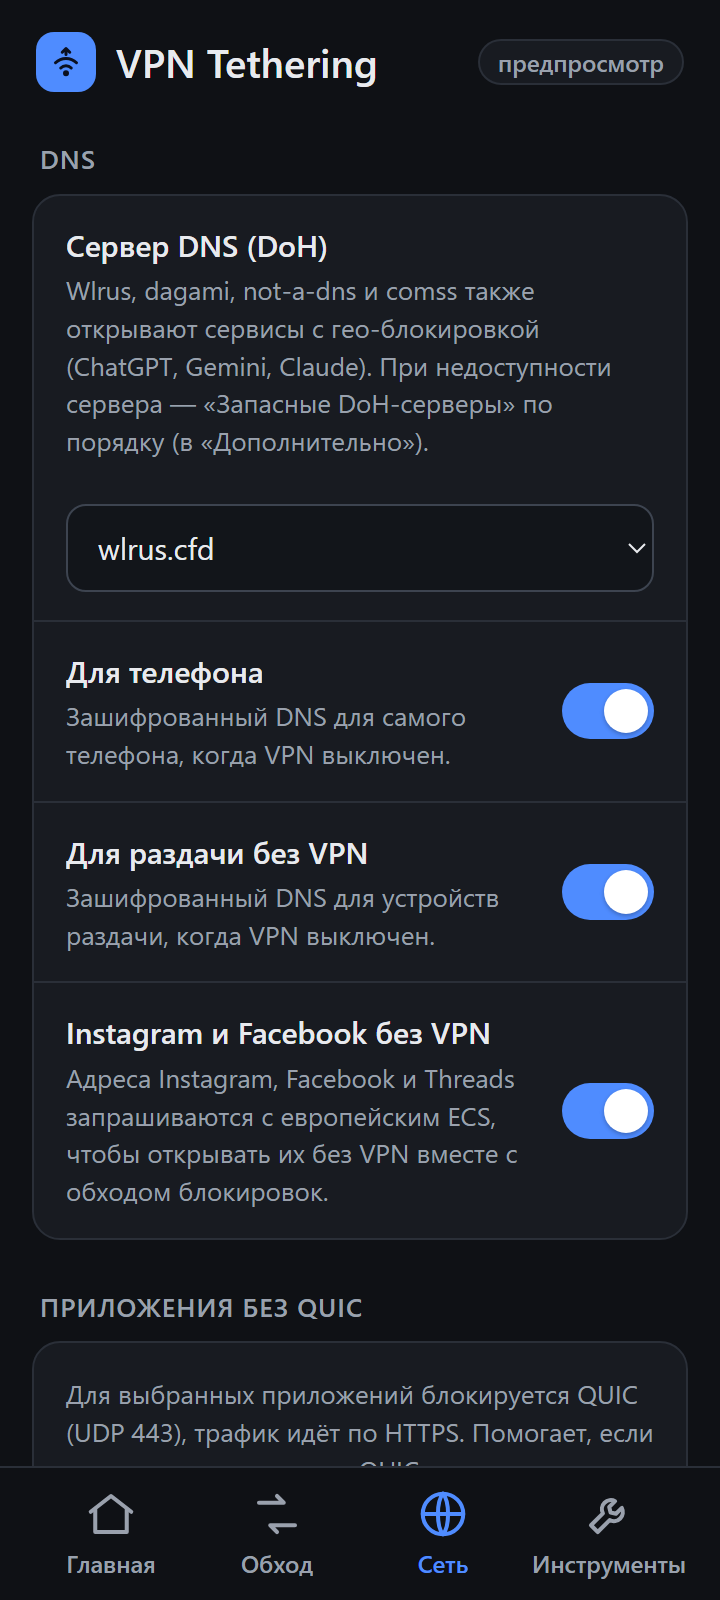
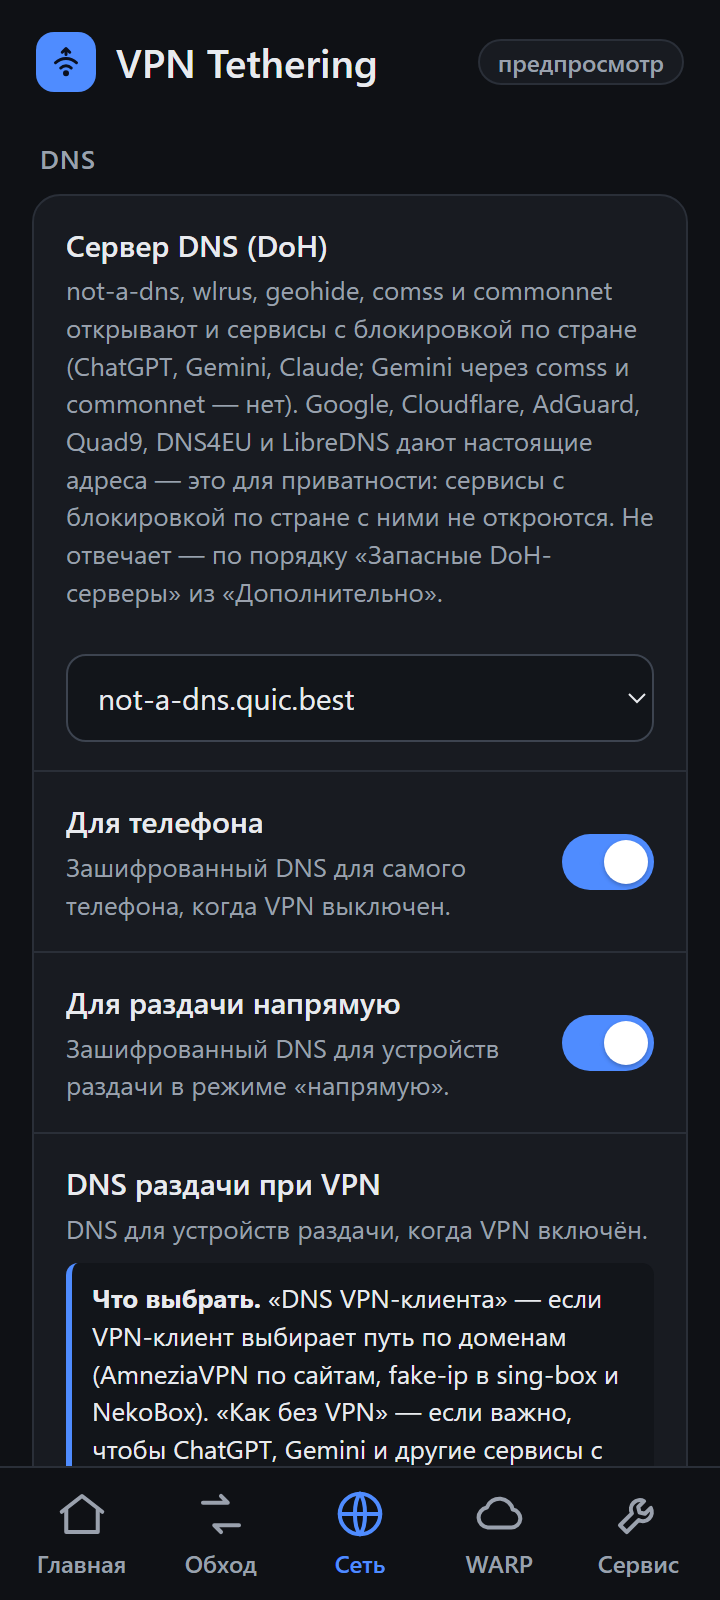
README: скриншоты WebUI под 3.22 (5 вкладок, с WARP и «Сервис»), описание DNS при VPN и WARP для кого

diff --git a/README.md b/README.md
@@ -35,12 +35,13 @@
 ## Скриншоты
 
 <p align="center">
-<picture><source media="(prefers-color-scheme: dark)" srcset="docs/screenshots/home-dark.png"><img src="docs/screenshots/home-light.png" width="24%" alt="Главная: режим раздачи и основные выключатели"></picture>
-<picture><source media="(prefers-color-scheme: dark)" srcset="docs/screenshots/bypass-dark.png"><img src="docs/screenshots/bypass-light.png" width="24%" alt="Обход: стратегия для каждой сети"></picture>
-<picture><source media="(prefers-color-scheme: dark)" srcset="docs/screenshots/net-dark.png"><img src="docs/screenshots/net-light.png" width="24%" alt="Сеть: DNS-сервер и приложения без QUIC"></picture>
-<picture><source media="(prefers-color-scheme: dark)" srcset="docs/screenshots/tools-dark.png"><img src="docs/screenshots/tools-light.png" width="24%" alt="Инструменты: диагностика сети и проверки"></picture>
+<picture><source media="(prefers-color-scheme: dark)" srcset="docs/screenshots/home-dark.png"><img src="docs/screenshots/home-light.png" width="19%" alt="Главная: режим раздачи и основные выключатели"></picture>
+<picture><source media="(prefers-color-scheme: dark)" srcset="docs/screenshots/bypass-dark.png"><img src="docs/screenshots/bypass-light.png" width="19%" alt="Обход: стратегия для каждой сети"></picture>
+<picture><source media="(prefers-color-scheme: dark)" srcset="docs/screenshots/net-dark.png"><img src="docs/screenshots/net-light.png" width="19%" alt="Сеть: сервер DNS, DNS для телефона и раздачи"></picture>
+<picture><source media="(prefers-color-scheme: dark)" srcset="docs/screenshots/warp-dark.png"><img src="docs/screenshots/warp-light.png" width="19%" alt="WARP: туннель, для кого и что через него идёт"></picture>
+<picture><source media="(prefers-color-scheme: dark)" srcset="docs/screenshots/tools-dark.png"><img src="docs/screenshots/tools-light.png" width="19%" alt="Сервис: диагностика сети и проверки"></picture>
 </p>
-<p align="center"><sub>Главная · Обход · Сеть · Инструменты</sub></p>
+<p align="center"><sub>Главная · Обход · Сеть · WARP · Сервис</sub></p>
 
 ## Возможности
 
@@ -55,7 +56,9 @@
   dnsproxy по DoH — без подмены ответов оператором и с доступом к сервисам с гео-блокировкой
   (ChatGPT, Gemini, Claude и т. п.).
   Проверка здоровья, цепочка запасных серверов, адреса Instagram и Facebook «как из Европы» (ECS).
-  Когда пропадает вся сеть, DNS не уходит на оператора — ждёт её возврата.
+  Когда пропадает вся сеть, DNS не уходит на оператора — ждёт её возврата. При VPN DNS раздачи —
+  DNS VPN-клиента или «как без VPN» (тот же DoH, но через туннель): после выключения VPN
+  сервисы с блокировкой по стране открываются сразу.
 - **Обход блокировок (zapret/nfqws)** для трафика мимо VPN — раздачи напрямую и приложений
   телефона. Своя стратегия для каждой сети, подбор в WebUI (~2 или ~7 мин), сторож, который
   сам чинит сломавшуюся стратегию, отдельные стратегии для отдельных сайтов. Банки и Госуслуги
@@ -63,7 +66,7 @@
 - **WARP без VPN-клиента.** Для того, что обход не открывает (Telegram, сайты с блокировкой
   по IP или по стране), — свой туннель WARP на AmneziaWG в режиме «напрямую». Через него идут
   только выбранные группы: Telegram (клиенты на телефоне — целиком), по желанию Google, свои
-  домены и приложения телефона. Конфиги создаются прямо с телефона или импортируются из
+  домены и приложения телефона; для телефона и для раздачи — отдельными переключателями. Конфиги создаются прямо с телефона или импортируются из
   AmneziaVPN; перестал отвечать — модуль переходит на следующий (пропавшая сеть, например в
   метро, сбоем конфига не считается).
 - **YouTube на мобильном интернете.** Отбой «молчащих» видеосерверов, обрыв медленных
@@ -301,6 +304,7 @@ for Meta domains (ECS); **DPI circumvention** with zapret's `nfqws` for traffic 
 per-network strategies, a quick/full strategy scanner, a self-repairing watchdog, per-site
 strategies and an exclusion list for banks and government services; a built-in **WARP tunnel**
 (AmneziaWG, no VPN app needed) for selected groups — Telegram, Google, custom domains, whole apps —
+separately for the phone and for tethered devices,
 with configs generated on the phone or imported from AmneziaVPN; **YouTube helpers** for mobile
 networks (fail-fast on silent video servers, dropping slow video connections, QUIC with fake Initials
 instead of blocking); tethering stealth (TTL 63) and per-app QUIC blocking.

diff --git a/docs/settings.md b/docs/settings.md
@@ -27,14 +27,14 @@
 настроек. Все вызовы идут через `webctl.sh` с фиксированным набором команд. Значения
 проверяет сам `service.sh --check` теми же правилами, что и при чтении конфига.
 С v3.10 разделы разложены по вкладкам: **Главная** (режим и главные выключатели),
-**Обход**, **Сеть** (DNS, приложения без QUIC), **WARP** (с 3.19.0) и **Сервис** (до 3.19.0 —
+**Обход** (в том числе YouTube и QUIC), **Сеть** (DNS), **WARP** (с 3.19.0) и **Сервис** (до 3.19.0 —
 «Инструменты»: проверки, журнал, «Отправить логи»). Что в них есть:
 
 - **Переключить / Защита** — режим и kill-switch.
 - **Диагностика сети** — подмена DNS, обрыв на ~16 КБ у зарубежных хостингов,
   белые списки (SNI), Telegram.
-- **DNS** — DoH для раздачи напрямую, Meta «как из Европы», DNS раздачи через VPN,
-  приложения без QUIC.
+- **DNS** — DoH для раздачи напрямую, Meta «как из Европы», DNS раздачи при VPN
+  (DNS VPN-клиента или «Как без VPN»).
 - **Обход блокировок** — включение и режим zapret, YouTube-функции, сторож, своя стратегия
   для сайтов, журнал сторожа и подбора, стратегия текущей сети, свой список сайтов,
   встроенный список и автосписок, «Проверить сайт», «Скорость YouTube» и подбор стратегии
@@ -43,7 +43,7 @@
   настройки Meta, сброс всех настроек.
 - **Журнал** — хвост лога демона и лог прошлого запуска.
 - **WARP** — состояние туннеля, что идёт через WARP (Telegram, Google, домены, приложения
-  целиком, «Для самого телефона»), конфиги: создать, импорт `.conf`/zip AmneziaVPN, вставить
+  целиком, «Для самого телефона», «Для раздачи»), конфиги: создать, импорт `.conf`/zip AmneziaVPN, вставить
   текст, «Основной», сохранить по одному и все в zip, удалить.
 
 Кнопка «Применить» перечитывает настройки без перезагрузки. Раздача пересобирается, только
